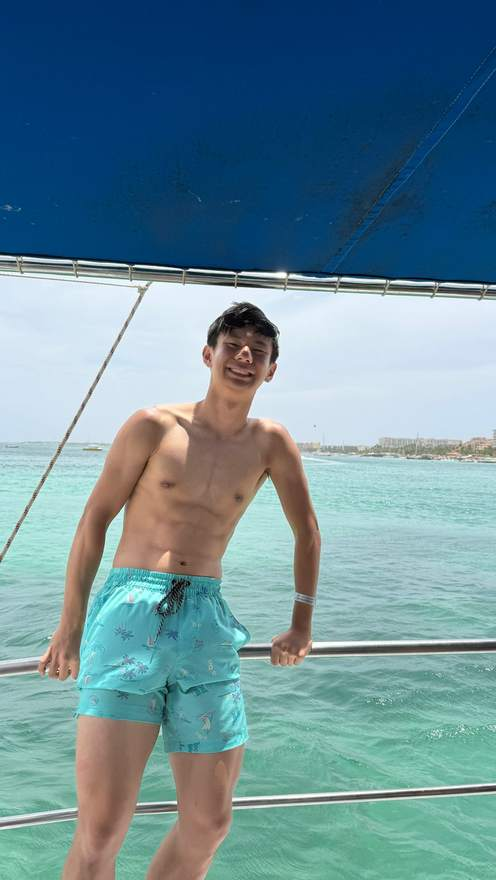
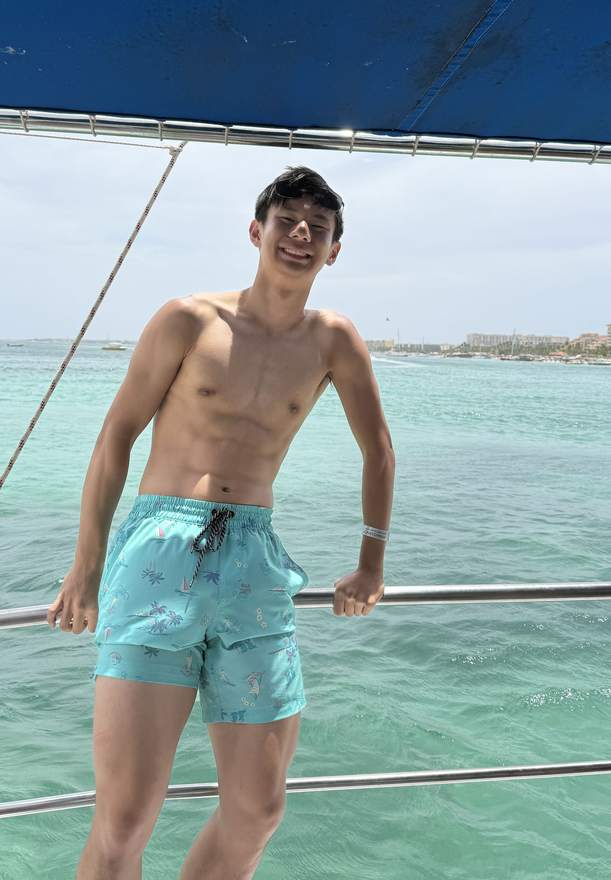
Unlink the CMU phrase and swap the travelling photo (#18)
* Unlink the microplastic enzymes phrase

"microplastic eating enzymes" was linked to the CMU-Computational-Biology repo.
It is now plain text; the wording is unchanged.

That was the last GitHub-repo link in the list. Four links remain: OSM, ISEF,
the club's org, and academies-it.org.

* Swap the travelling photo

Replaces img/aruba.jpg with a closer, sharper frame of the same scene. Sized on
height as before (880px, 2x the 440px display cap), 53KB.

---------

diff --git a/index.html b/index.html
@@ -308,7 +308,7 @@
       <strong>Princeton</strong>
     </li>
     <li>
-      presented research on <a href="https://github.com/Mallhw/CMU-Computational-Biology">microplastic eating enzymes</a>
+      presented research on microplastic eating enzymes
       @ <strong>CMU</strong>
     </li>
     <li>
